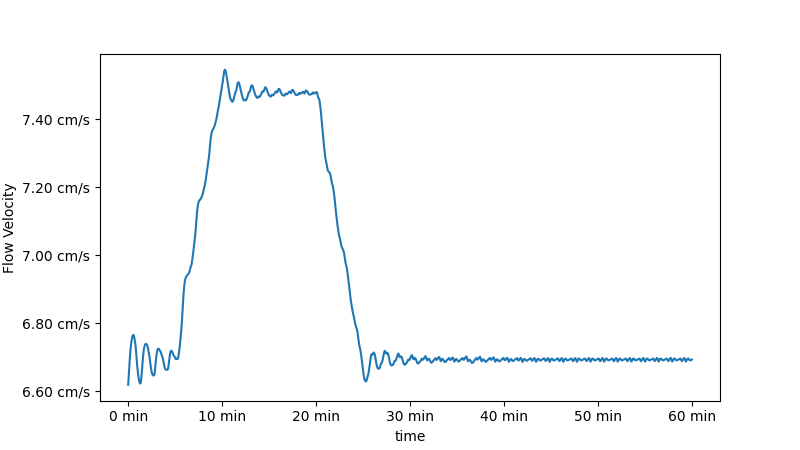
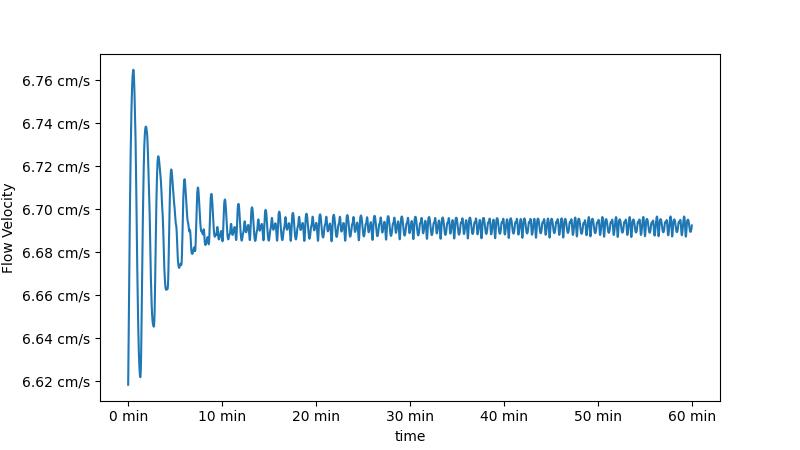
non-linear core-power-array

diff --git a/simulation.py b/simulation.py
@@ -40,9 +40,9 @@ Q0 is calculated above, Q1 is the power after the first power change, Q2 is the 
 
 
 
-Q1,Q2 = 10000,Q0
+#Q1,Q2 = 10000,Q0
 #Q1 = Q2 = 8000
-#Q1,Q2 = Q0,Q0
+Q1,Q2 = Q0,Q0
 
 t0,t01,t1,t12,t2 = 300,300,600,300,2100
 times = (0,t0,t01,t1,t12,t2)
@@ -129,7 +129,7 @@ print('plotting temperature profiles')
 Tmin = np.min(np.array(T_x_t))
 Tmax = np.max(np.array(T_x_t))
 
-exit()
+#exit()
 
 for step, T_x in tqdm(zip(t[1:],T_x_t),total=len(T_x_t)):
     if step*params.dt%60 ==0:
@@ -137,7 +137,7 @@ for step, T_x in tqdm(zip(t[1:],T_x_t),total=len(T_x_t)):
         plots.x_vs_Tx(path, step, T_x, Tmin, Tmax)
 plots.gif('img/animateTx_t')
 
-#exit()#remove if you want to print local mins/maxes
+exit()#remove if you want to print local mins/maxes
 
 maximums = argrelextrema(np.array(Qcore_t),np.greater)
 minimums = argrelextrema(np.array(Qcore_t),np.less)

diff --git a/loop.py b/loop.py
@@ -17,3 +17,18 @@ xchimney = np.arange(Ro+1,HEXi)
 xhex = np.arange(HEXi,HEXo+1)
 xdowncomer = np.arange(HEXo+1,Ri2)
 x = np.concatenate((xcore,xchimney,xhex,xdowncomer))
+
+#New code since thesis was published
+#Make non-linear power array
+coreshape = np.sin(np.pi*(xcore+1)/len(xcore))
+coreprofile = coreshape/sum(coreshape) #normalizes
+
+#Check if shape is right. Only executes if you run this file, not when imported
+if __name__ == "__main__":
+    print(np.sum(coreprofile))
+    import matplotlib.pyplot as plt
+    plt.figure()
+    plt.plot(coreshape,xcore)
+    plt.xlabel('Relative Power')
+    plt.ylabel('Height in core')
+    plt.show()

diff --git a/TempProfile.py b/TempProfile.py
@@ -50,6 +50,7 @@ def advance(T_x,velo,Qcore,Qhex):
     LHRcore=Qcore/len(loop.xcore) #kW/mm
     LHRhex=-Qhex/len(loop.xhex)    #kW/mm
     Q_core = LHRcore*np.ones(len(loop.xcore))
+    #Q_core = Qcore*loop.coreprofile
     Q_core[0:velo] = np.linspace(0,Q_core[velo],num=velo)
     Q_chimney = np.zeros(len(loop.xchimney))
     Q_hex = LHRhex*np.ones(len(loop.xhex))
